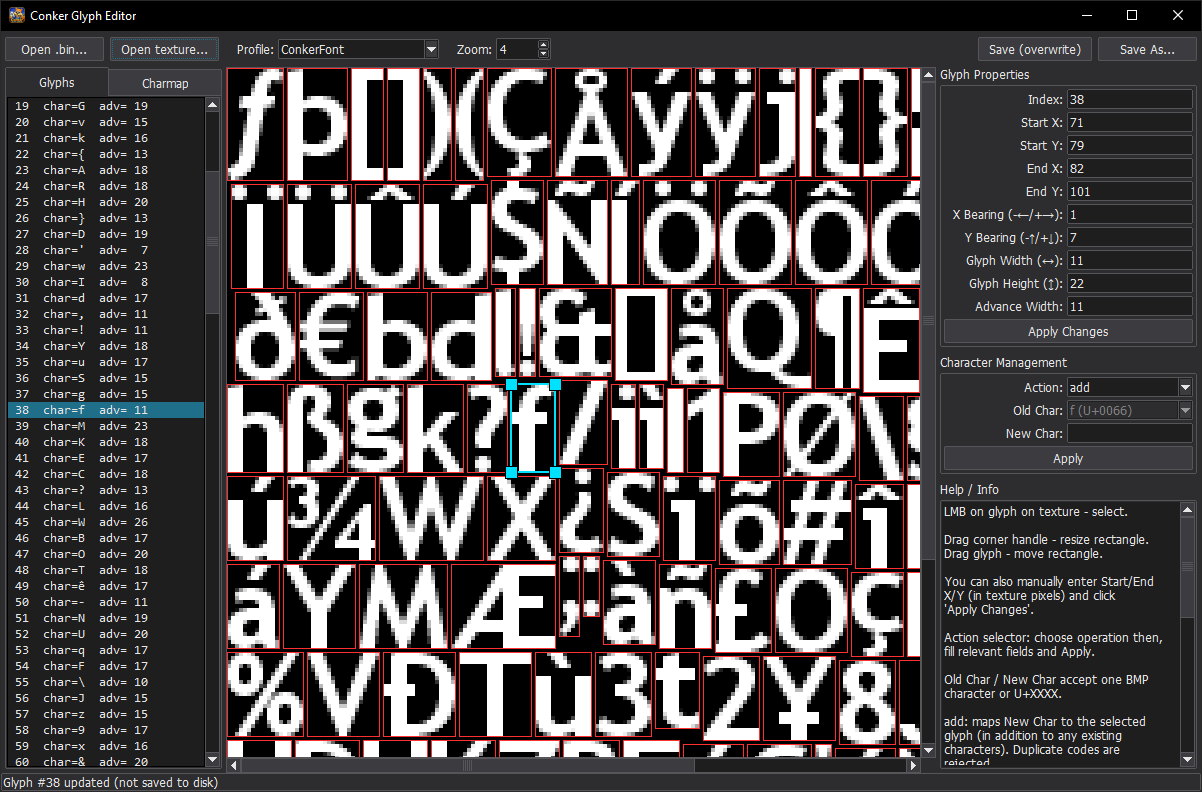
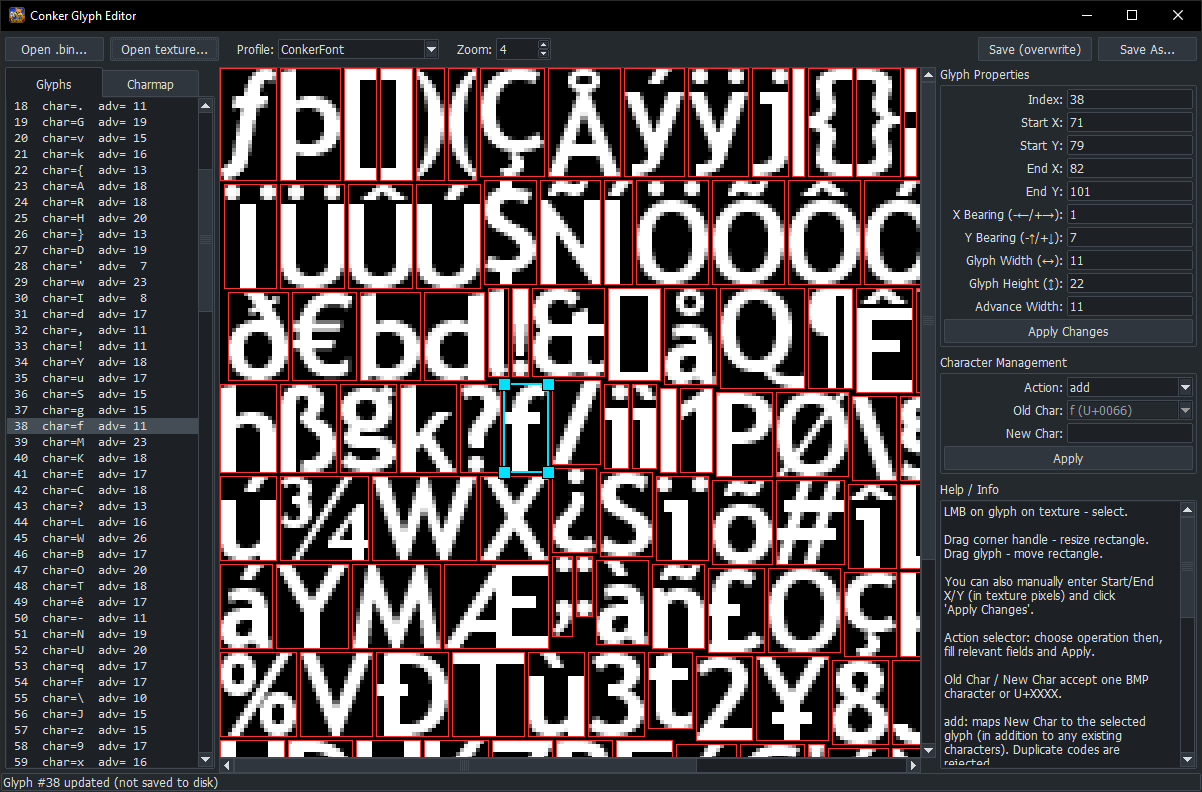
v0.2.4

Changed region(s): [[0.0, 0.0606, 0.7696, 0.9697]]

diff --git a/conker_glyph_editor.py b/conker_glyph_editor.py
@@ -37,6 +37,11 @@ MONO_FONT_CANDIDATES = ("Consolas", "Liberation Mono")
 UI_FONT_SIZE = 9
 MONO_FONT_SIZE = 10
 
+TAB_WIDTHS = {
+    "Tahoma": 13,
+    "Liberation Sans": 13,
+}
+
 
 def _pick_family(root, candidates):
     """Return the first installed font family from candidates (case-insensitive), or None."""
@@ -79,15 +84,17 @@ def setup_fonts(root):
 # One palette for the whole UI (clam theme + classic tk widgets), so that no
 # widget keeps the default white background. Tweak colors here.
 PALETTE = {
-    "bg":       "#2d2d30",   # window / frames
-    "fg":       "#e6e6e6",   # text
-    "field":    "#1e1e1e",   # entries, listboxes, help text, scrollbar troughs
-    "canvas":   "#222222",   # texture canvas
-    "button":   "#3c3c40",   # buttons, inactive tabs, scrollbar thumbs
-    "active":   "#4a4a50",   # hover / pressed
-    "border":   "#55555a",
-    "select":   "#1f6f8b",   # selection background
-    "disabled": "#808080",
+    "bg":       "#24292e",   # window / frames
+    "fg":       "#d9dcde",   # text
+    "field":    "#1d2125",   # entries, listboxes, help text, scrollbar troughs
+    "canvas":   "#1d2125",   # texture canvas
+    "button":   "#2f363d",   # buttons, inactive tabs, scrollbar thumbs
+    "active":   "#333b42",   # hover / pressed
+    "border":   "#41484f",
+    "select":   "#444d56",   # selection background
+    "disabled": "#959da5",
+    "tab_active": "#1d2125",   # active tab background
+    "button_border_hover": "#58a6ff",   # button border on hover
 }
 
 
@@ -145,7 +152,7 @@ def apply_theme(root):
               lightcolor=[("pressed", c["active"]), ("active", c["button"]), ("focus", c["button"])],
               darkcolor=[("pressed", c["active"]), ("active", c["button"]), ("focus", c["button"])],
               bordercolor=[("disabled", c["border"]), ("pressed", c["border"]),
-                          ("active", c["border"]), ("focus", c["border"]),
+                          ("active", c["button_border_hover"]), ("focus", c["border"]),
                           ("alternate", c["border"])])
 
     # Menubuttons (e.g. "Directory" / "Files of type" in Tk's file dialog): clam turns
@@ -159,7 +166,8 @@ def apply_theme(root):
               lightcolor=[("pressed", c["active"]), ("active", c["active"])],
               darkcolor=[("pressed", c["active"]), ("active", c["active"])],
               foreground=[("disabled", c["disabled"])],
-              arrowcolor=[("disabled", c["disabled"])])
+              arrowcolor=[("disabled", c["disabled"])],
+              bordercolor=[("active", c["button_border_hover"])])
 
     for name in ("TEntry", "TCombobox", "TSpinbox"):
         style.configure(name, fieldbackground=c["field"], foreground=c["fg"],
@@ -180,8 +188,8 @@ def apply_theme(root):
     style.configure("TNotebook", background=c["bg"], bordercolor=c["border"])
     style.configure("TNotebook.Tab", background=c["button"], foreground=c["fg"],
                     bordercolor=c["border"])
-    style.map("TNotebook.Tab", background=[("selected", c["bg"]), ("active", c["active"])],
-              lightcolor=[("selected", c["bg"]), ("!selected", c["button"])])
+    style.map("TNotebook.Tab", background=[("selected", c["tab_active"]), ("active", c["active"])],
+              lightcolor=[("selected", c["tab_active"]), ("!selected", c["button"])])
     style.configure("TNotebook.Tab", lightcolor=c["button"], darkcolor=c["button"])
 
     style.configure("TScrollbar", background=c["button"], bordercolor=c["border"],
@@ -521,19 +529,23 @@ class GlyphEditorApp:
         main.pack(side=tk.TOP, fill=tk.BOTH, expand=True)
 
         # Left panel: glyph list / charmap, in tabs
-        left = ttk.Frame(main, width=225)
+        left = ttk.Frame(main, width=218)
         left.pack(side=tk.LEFT, fill=tk.Y)
         left.pack_propagate(False)
 
         self.left_notebook = ttk.Notebook(left)
         self.left_notebook.pack(fill=tk.BOTH, expand=True, padx=4, pady=4)
 
+        font_name = self.ui_font[0] if isinstance(self.ui_font, tuple) else self.ui_font.actual("family")
+
+        tab_width = TAB_WIDTHS.get(font_name, 13)
+
         # --- Tabs ---
         style = ttk.Style()
-        style.configure("TNotebook.Tab", padding=(31, 4))
+        style.configure("TNotebook.Tab", width=tab_width, padding=(0, 4, 0, 4), anchor="center")
         # 'clam' maps its own padding for the selected tab ("6 4 6 2"), which overrides
         # the line above and makes tabs resize on click. Pin it for every state.
-        style.map("TNotebook.Tab", padding=[("selected", (31, 5))], expand=[("selected", (0, 0, 0, 0))])
+        style.map("TNotebook.Tab", padding=[("selected", (0, 7, 0, 4))], expand=[("selected", (0, 0, 0, 0))])
 
         # --- Tab 1: Glyphs ---
         glyphs_tab = ttk.Frame(self.left_notebook)
@@ -547,7 +559,8 @@ class GlyphEditorApp:
 
         self.glyph_listbox = tk.Listbox(glyph_list_frame, yscrollcommand=glyph_scrollbar.set,
                                          font=self.mono_font,
-                                         selectmode=tk.SINGLE, exportselection=False)
+                                         selectmode=tk.SINGLE, exportselection=False,
+                                         borderwidth=0, relief="flat")
         self.glyph_listbox.pack(side=tk.LEFT, fill=tk.BOTH, expand=True)
         glyph_scrollbar.config(command=self.glyph_listbox.yview)
         self.glyph_listbox.bind("<<ListboxSelect>>", self.on_listbox_select)
@@ -564,7 +577,8 @@ class GlyphEditorApp:
 
         self.charmap_listbox = tk.Listbox(charmap_list_frame, yscrollcommand=charmap_scrollbar.set,
                                            font=self.mono_font,
-                                           selectmode=tk.SINGLE, exportselection=False)
+                                           selectmode=tk.SINGLE, exportselection=False,
+                                           borderwidth=0, relief="flat")
         self.charmap_listbox.pack(side=tk.LEFT, fill=tk.BOTH, expand=True)
         charmap_scrollbar.config(command=self.charmap_listbox.yview)
         self.charmap_listbox.bind("<<ListboxSelect>>", self.on_charmap_listbox_select)
